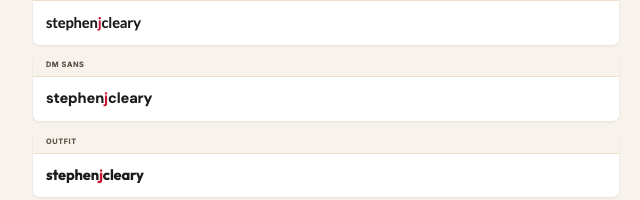
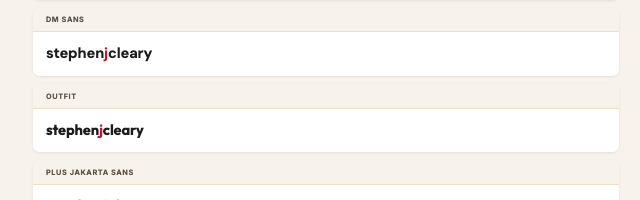
Font thumbnail: crop middle third, anchor to left

diff --git a/index.html b/index.html
@@ -1291,6 +1291,7 @@
         icon: icons.fontFind,
         photo: 'images/thumb_font.png',
         photoAlt: 'Blog header in Outfit — the new font',
+        photoPosition: 'left center',
         meta: '23 April 2026',
         title: "Finding a new font",
         body: `
@@ -1586,7 +1587,7 @@
         const entry = entries[i];
         const excerpt = entry.body.replace(/<[^>]*>/g, ' ').replace(/\s+/g, ' ').trim().slice(0, 120) + '…';
         const photo = entry.photo
-          ? `<img src="${entry.photo}" alt="${entry.photoAlt || ''}" />`
+          ? `<img src="${entry.photo}" alt="${entry.photoAlt || ''}" style="object-position: ${entry.photoPosition || 'center center'}" />`
           : '';
         return `
           <div class="card archive-card" onclick="openEntry(${i})">